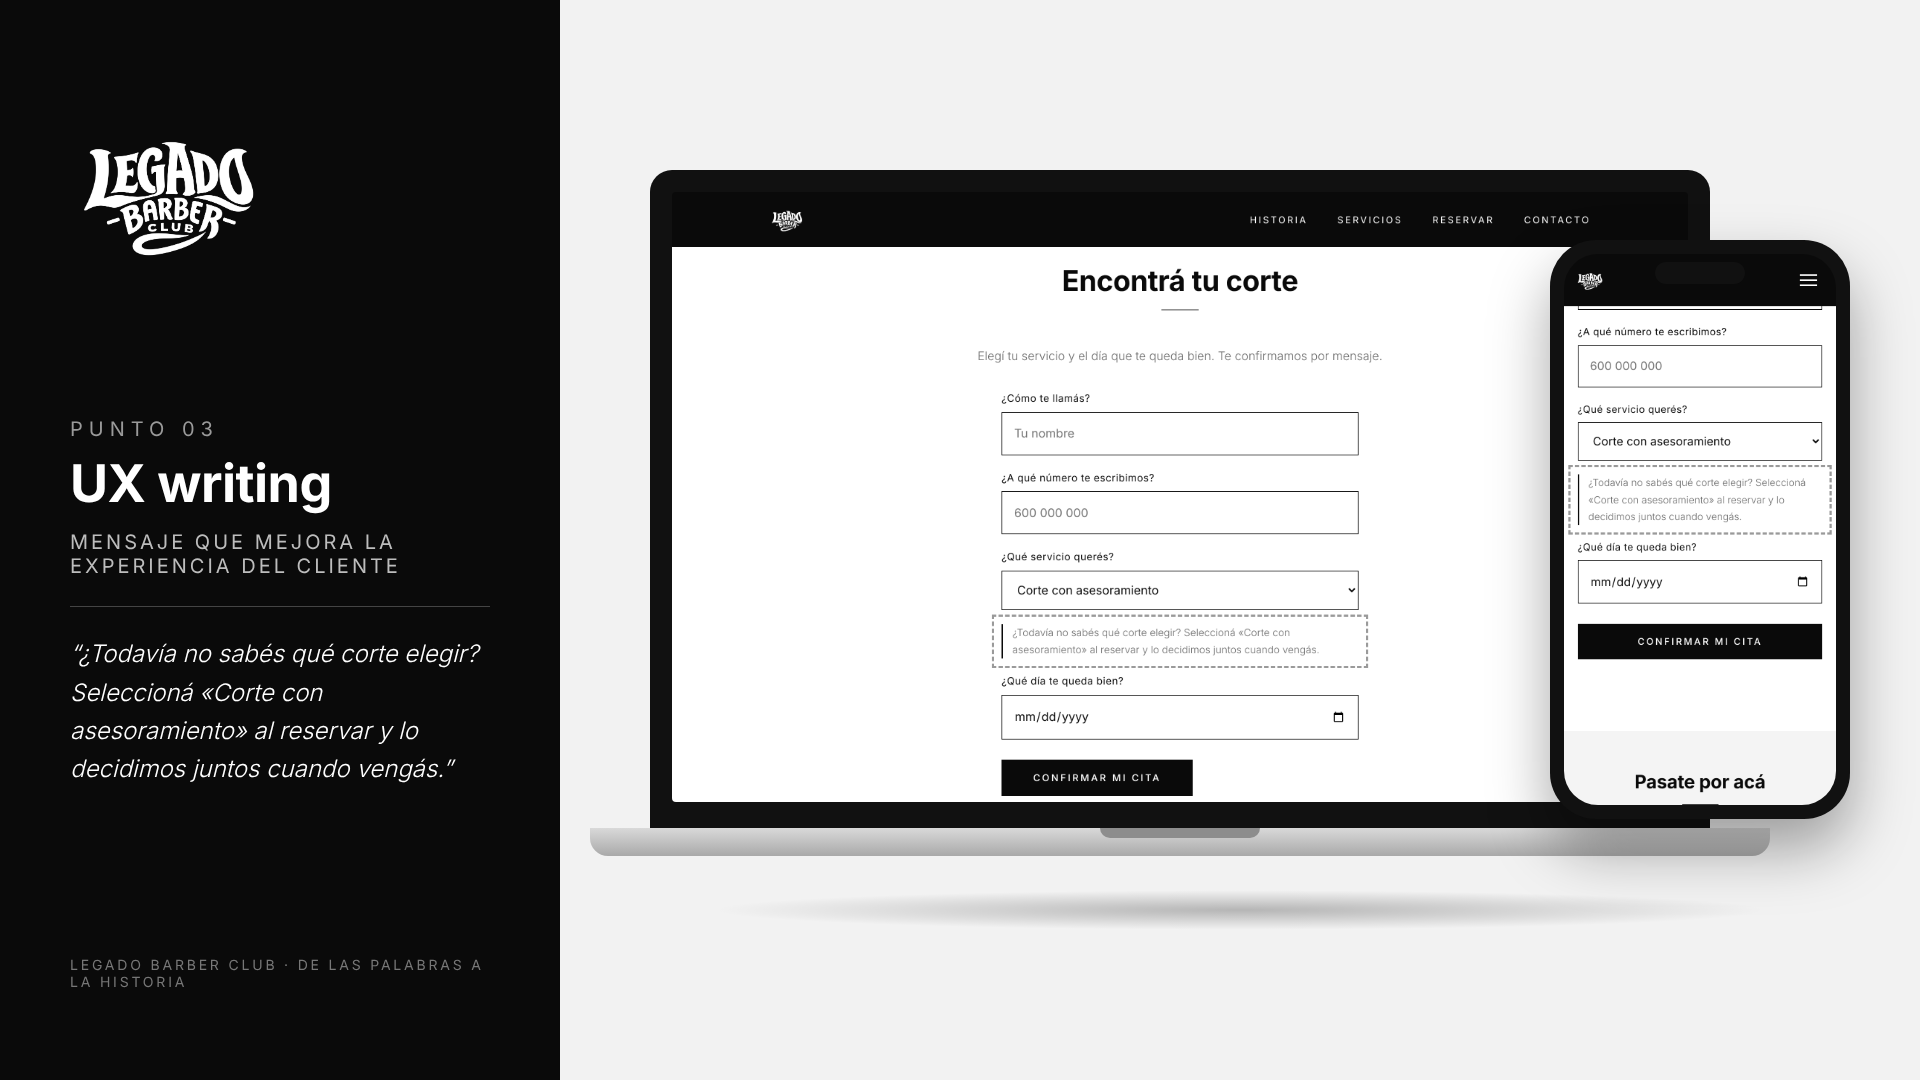
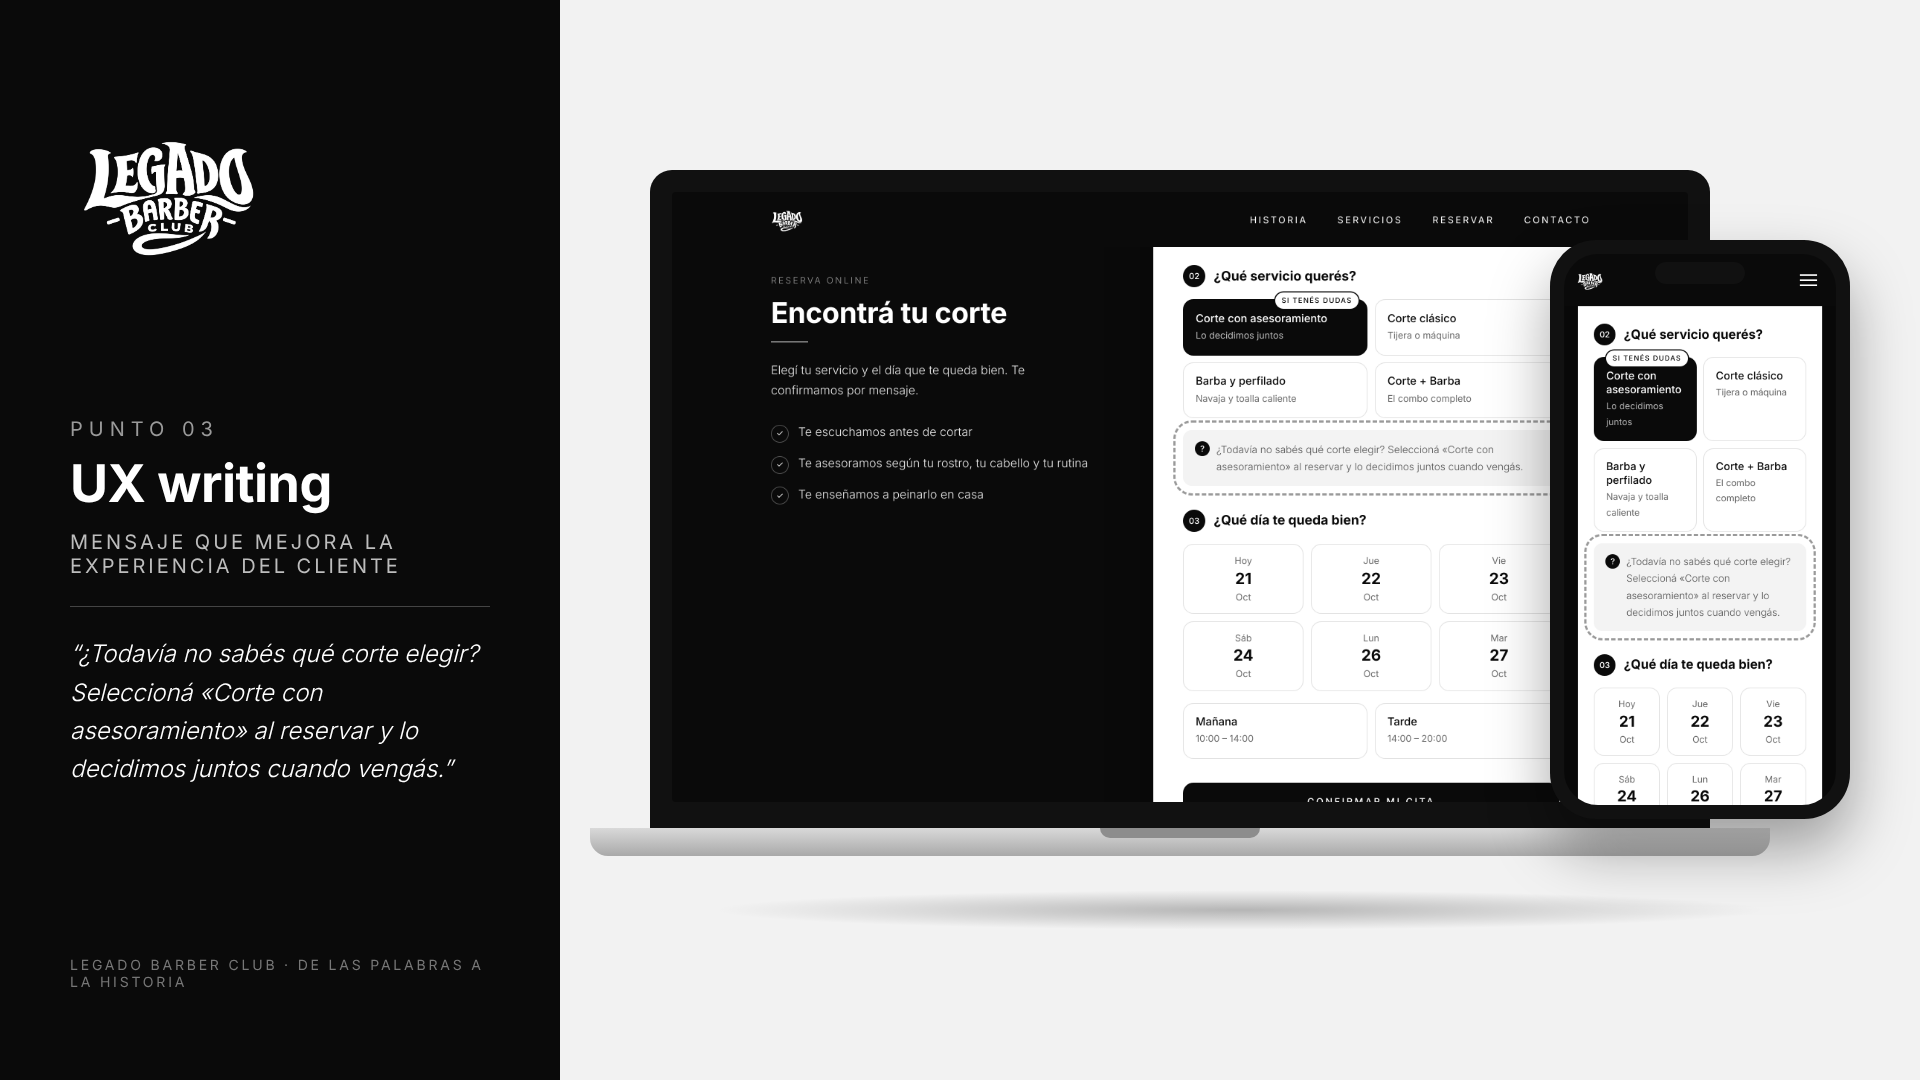
Rediseña la reserva: tarjeta moderna, servicios y días seleccionables, franja horaria
Arregla además el campo de fecha que se desbordaba en iPhone.

Claude-Session: https://claude.ai/code/session_01RobnzDRJb2ZKhNGXWR7zKK

Changed region(s): [[0.3438, 0.2139, 0.9688, 0.7639]]

diff --git a/styles.css b/styles.css
@@ -119,20 +119,92 @@ nav ul a:hover { border-color: var(--blanco); }
 .tarjetas article:hover p { color: var(--gris-claro); }
 
 /* Formulario de reserva */
-.intro { color: var(--gris); margin-bottom: 2rem; }
-.seccion form { max-width: 480px; display: grid; gap: 1.2rem; text-align: left; }
-label { font-size: .85rem; font-weight: 400; letter-spacing: .03em; display: grid; gap: .4rem; }
-input, select {
-  width: 100%; padding: .9rem 1rem; font: inherit; font-size: 1rem; /* 16px evita el zoom en iOS */
-  border: 1px solid var(--negro); background: var(--blanco); color: var(--negro); border-radius: 0;
+.reserva-grid {
+  display: grid; grid-template-columns: 1fr 1.35fr; gap: clamp(2rem, 6vw, 5rem);
+  max-width: 1100px; text-align: left; align-items: start;
 }
-[aria-invalid] { border-width: 2px; }
-input:focus, select:focus { outline: 2px solid var(--negro); outline-offset: 2px; }
-.ayuda { font-size: .85rem; color: var(--gris); border-left: 2px solid var(--negro); padding-left: .8rem; }
-form .btn { justify-self: start; margin-top: .5rem; }
-#mensaje { min-height: 1.5rem; font-size: .95rem; }
-#mensaje.error { border-left: 3px solid var(--negro); padding-left: .8rem; }
-#mensaje.ok { background: var(--negro); color: var(--blanco); padding: 1rem; }
+.reserva-info { position: sticky; top: calc(var(--nav-alto) + 2rem); }
+.etiqueta { font-size: .75rem; letter-spacing: .2em; text-transform: uppercase; color: #9a9a9a; }
+.reserva-info h2 { margin-top: .6rem; }
+.reserva-info h2::after { margin-left: 0; margin-bottom: 1.5rem; }
+.reserva-info > p { color: var(--gris-claro); margin-bottom: 1.8rem; }
+.beneficios { list-style: none; display: grid; gap: .9rem; }
+.beneficios li { display: flex; gap: .8rem; align-items: baseline; color: var(--gris-claro); }
+.beneficios li::before {
+  content: '✓'; flex: none; display: grid; place-items: center; width: 22px; height: 22px;
+  border: 1px solid #555; border-radius: 50%; font-size: .7rem; color: var(--blanco);
+}
+
+.tarjeta-form {
+  background: var(--blanco); color: var(--negro); border-radius: 24px;
+  padding: clamp(1.4rem, 4vw, 2.5rem); display: grid; gap: 2rem;
+  box-shadow: 0 30px 60px rgba(0,0,0,.35);
+}
+fieldset { border: 0; min-width: 0; display: grid; gap: 1rem; }
+legend {
+  display: flex; align-items: center; gap: .7rem; margin-bottom: 1rem;
+  font-family: var(--display); font-weight: 700; font-size: 1.1rem;
+}
+.num {
+  display: inline-grid; place-items: center; width: 30px; height: 30px; border-radius: 50%;
+  background: var(--negro); color: var(--blanco); font-family: 'Inter', sans-serif; font-size: .7rem; font-weight: 500;
+}
+label { font-size: .85rem; font-weight: 400; display: grid; gap: .45rem; }
+input[type=text], input[type=tel] {
+  width: 100%; min-width: 0; padding: .95rem 1.1rem; font: inherit; font-size: 1rem; /* 16px evita el zoom en iOS */
+  border: 1.5px solid transparent; border-radius: 12px; background: #f3f3f3; color: var(--negro);
+  -webkit-appearance: none; appearance: none; transition: border-color .2s, background .2s, box-shadow .2s;
+}
+input[type=text]:focus, input[type=tel]:focus {
+  outline: none; background: var(--blanco); border-color: var(--negro); box-shadow: 0 0 0 4px rgba(0,0,0,.08);
+}
+input[aria-invalid] { background: var(--blanco); border-color: var(--negro); }
+
+/* Opciones seleccionables (servicio, día y franja) */
+.opciones { display: grid; gap: .6rem; grid-template-columns: repeat(2, 1fr); }
+.opciones.dias { grid-template-columns: repeat(3, 1fr); }
+.opcion { position: relative; cursor: pointer; display: block; }
+.opcion input { position: absolute; opacity: 0; pointer-events: none; }
+.opcion > span {
+  display: block; height: 100%; padding: .95rem 1rem; border: 1.5px solid #e2e2e2; border-radius: 14px;
+  background: var(--blanco); transition: border-color .2s, background .2s, color .2s, transform .1s;
+}
+.opcion:hover > span { border-color: var(--negro); }
+.opcion:active > span { transform: scale(.98); }
+.opcion strong { display: block; font-weight: 500; font-size: .92rem; line-height: 1.3; }
+.opcion small { display: block; color: var(--gris); font-size: .78rem; margin-top: .15rem; }
+.opcion input:checked + span { background: var(--negro); border-color: var(--negro); color: var(--blanco); }
+.opcion input:checked + span small { color: #bdbdbd; }
+.opcion input:focus-visible + span { outline: 2px solid var(--negro); outline-offset: 3px; }
+.opciones[aria-invalid] .opcion > span { border-color: var(--negro); }
+.badge {
+  position: absolute; top: -9px; right: 12px; padding: .15rem .55rem; border-radius: 99px;
+  background: var(--negro); color: var(--blanco); font-style: normal; font-size: .6rem;
+  letter-spacing: .12em; text-transform: uppercase; font-weight: 500;
+}
+.opcion input:checked + span .badge { background: var(--blanco); color: var(--negro); box-shadow: 0 0 0 1.5px var(--negro); }
+.dias .opcion > span { text-align: center; padding: .7rem .4rem; }
+.dias strong { font-size: 1.3rem; font-weight: 700; font-family: var(--display); }
+.dias small { margin: 0; text-transform: capitalize; }
+
+.ayuda {
+  font-size: .85rem; color: #555; background: #f3f3f3; border-radius: 12px;
+  padding: .9rem 1rem .9rem 2.8rem; position: relative;
+}
+.ayuda::before {
+  content: '?'; position: absolute; left: 1rem; top: .95rem; width: 20px; height: 20px; border-radius: 50%;
+  background: var(--negro); color: var(--blanco); display: grid; place-items: center; font-size: .7rem; font-weight: 500;
+}
+.tarjeta-form .btn-bloque { display: block; width: 100%; margin-top: 0; border-radius: 14px; padding: 1.1rem; }
+#mensaje:empty { display: none; }
+#mensaje { font-size: .95rem; border-radius: 12px; padding: 1rem 1.1rem; margin-top: -1rem; }
+#mensaje.error { background: #f3f3f3; border-left: 3px solid var(--negro); }
+#mensaje.ok { background: var(--negro); color: var(--blanco); }
+
+@media (max-width: 860px) {
+  .reserva-grid { grid-template-columns: 1fr; }
+  .reserva-info { position: static; }
+}
 
 #contacto p { color: var(--gris); }
 

diff --git a/index.html b/index.html
@@ -70,34 +70,74 @@
   </section>
 
   <!-- 3. UX WRITING: ayuda en la reserva -->
-  <section id="reservar" class="seccion">
-    <h2>Encontrá tu corte</h2>
-    <p class="intro">Elegí tu servicio y el día que te queda bien. Te confirmamos por mensaje.</p>
-    <form id="form-reserva" novalidate>
-      <label>¿Cómo te llamás?
-        <input type="text" name="nombre" placeholder="Tu nombre" required>
-      </label>
-      <label>¿A qué número te escribimos?
-        <input type="tel" name="telefono" placeholder="600 000 000" required>
-      </label>
-      <label>¿Qué servicio querés?
-        <select name="servicio" required>
-          <option value="">Elegí un servicio</option>
-          <option>Corte con asesoramiento</option>
-          <option>Corte clásico</option>
-          <option>Barba y perfilado</option>
-          <option>Corte + Barba</option>
-        </select>
-      </label>
-      <p class="ayuda">¿Todavía no sabés qué corte elegir? Seleccioná «Corte con asesoramiento» al reservar y lo decidimos juntos cuando vengás.</p>
-      <label>¿Qué día te queda bien?
-        <input type="date" name="fecha" required>
-      </label>
-      <button type="submit" class="btn btn-negro">Confirmar mi cita</button>
-      <p id="mensaje" role="status" aria-live="polite"></p>
-    </form>
-  </section>
+  <section id="reservar" class="seccion oscura reserva">
+    <div class="reserva-grid">
+      <div class="reserva-info">
+        <span class="etiqueta">Reserva online</span>
+        <h2>Encontrá tu corte</h2>
+        <p>Elegí tu servicio y el día que te queda bien. Te confirmamos por mensaje.</p>
+        <ul class="beneficios">
+          <li>Te escuchamos antes de cortar</li>
+          <li>Te asesoramos según tu rostro, tu cabello y tu rutina</li>
+          <li>Te enseñamos a peinarlo en casa</li>
+        </ul>
+      </div>
 
+      <form id="form-reserva" class="tarjeta-form" novalidate>
+        <fieldset>
+          <legend><span class="num">01</span> Tus datos</legend>
+          <label>¿Cómo te llamás?
+            <input type="text" name="nombre" placeholder="Tu nombre" autocomplete="given-name" required>
+          </label>
+          <label>¿A qué número te escribimos?
+            <input type="tel" name="telefono" placeholder="11 2345 6789" inputmode="tel" autocomplete="tel" required>
+          </label>
+        </fieldset>
+
+        <fieldset>
+          <legend><span class="num">02</span> ¿Qué servicio querés?</legend>
+          <div class="opciones servicios">
+            <label class="opcion">
+              <input type="radio" name="servicio" value="Corte con asesoramiento">
+              <span><em class="badge">Si tenés dudas</em><strong>Corte con asesoramiento</strong><small>Lo decidimos juntos</small></span>
+            </label>
+            <label class="opcion">
+              <input type="radio" name="servicio" value="Corte clásico">
+              <span><strong>Corte clásico</strong><small>Tijera o máquina</small></span>
+            </label>
+            <label class="opcion">
+              <input type="radio" name="servicio" value="Barba y perfilado">
+              <span><strong>Barba y perfilado</strong><small>Navaja y toalla caliente</small></span>
+            </label>
+            <label class="opcion">
+              <input type="radio" name="servicio" value="Corte + Barba">
+              <span><strong>Corte + Barba</strong><small>El combo completo</small></span>
+            </label>
+          </div>
+          <p class="ayuda">¿Todavía no sabés qué corte elegir? Seleccioná «Corte con asesoramiento» al reservar y lo decidimos juntos cuando vengás.</p>
+        </fieldset>
+
+        <fieldset>
+          <legend><span class="num">03</span> ¿Qué día te queda bien?</legend>
+          <!-- Los próximos días abiertos se generan en script.js -->
+          <div class="opciones dias" id="dias"></div>
+          <div class="opciones franjas">
+            <label class="opcion">
+              <input type="radio" name="franja" value="a la mañana">
+              <span><strong>Mañana</strong><small>10:00 – 14:00</small></span>
+            </label>
+            <label class="opcion">
+              <input type="radio" name="franja" value="a la tarde">
+              <span><strong>Tarde</strong><small>14:00 – 20:00</small></span>
+            </label>
+          </div>
+        </fieldset>
+
+        <button type="submit" class="btn btn-negro btn-bloque">Confirmar mi cita</button>
+        <p id="mensaje" role="status" aria-live="polite"></p>
+      </form>
+    </div>
+  </section>
   <section id="contacto" class="seccion gris">
     <h2>Pasate por acá</h2>
     <p>Calle Principal 123</p>

diff --git a/script.js b/script.js
@@ -14,36 +14,54 @@ header.querySelectorAll('nav ul a').forEach(a => a.addEventListener('click', () 
 const form = document.getElementById('form-reserva');
 const mensaje = document.getElementById('mensaje');
 
-// Hoy (hora local) como fecha mínima
-const hoy = new Date();
-form.fecha.min = [hoy.getFullYear(), String(hoy.getMonth() + 1).padStart(2, '0'), String(hoy.getDate()).padStart(2, '0')].join('-');
+// Próximos 6 días abiertos (lunes a sábado) como opciones seleccionables
+const fechaISO = d => [d.getFullYear(), String(d.getMonth() + 1).padStart(2, '0'), String(d.getDate()).padStart(2, '0')].join('-');
+const dias = document.getElementById('dias');
+const dia = new Date();
+for (let n = 0; n < 6; dia.setDate(dia.getDate() + 1)) {
+  if (dia.getDay() === 0) continue; // Los domingos descansamos
+  const nombre = n === 0 && fechaISO(dia) === fechaISO(new Date())
+    ? 'Hoy'
+    : dia.toLocaleDateString('es', { weekday: 'short' }).replace('.', '');
+  const mes = dia.toLocaleDateString('es', { month: 'short' }).replace('.', '');
+  dias.insertAdjacentHTML('beforeend', `
+    <label class="opcion">
+      <input type="radio" name="fecha" value="${fechaISO(dia)}">
+      <span><small>${nombre}</small><strong>${dia.getDate()}</strong><small>${mes}</small></span>
+    </label>`);
+  n++;
+}
 
 form.addEventListener('submit', (e) => {
   e.preventDefault();
-  const { nombre, telefono, servicio, fecha } = form;
+  const { nombre, telefono } = form;
+  const servicio = form.servicio.value, fecha = form.fecha.value, franja = form.franja.value;
+  const primero = name => form.querySelector(`[name=${name}]`);
 
   // UX writing: mensajes claros que dicen qué falta y cómo arreglarlo
   if (!nombre.value.trim()) return avisar('Decinos tu nombre para reservarte el turno.', nombre);
   if (telefono.value.replace(/\D/g, '').length < 8) return avisar('Revisá tu número: parece que le faltan dígitos.', telefono);
-  if (!servicio.value) return avisar('Elegí un servicio. Si tenés dudas, seleccioná «Corte con asesoramiento».', servicio);
-  if (!fecha.value) return avisar('Elegí el día que te queda bien.', fecha);
-  if (fecha.value < fecha.min) return avisar('Esa fecha ya pasó. Elegí un día a partir de hoy.', fecha);
+  if (!servicio) return avisar('Elegí un servicio. Si tenés dudas, seleccioná «Corte con asesoramiento».', primero('servicio'));
+  if (!fecha) return avisar('Elegí el día que te queda bien.', primero('fecha'));
+  if (!franja) return avisar('¿Preferís venir a la mañana o a la tarde?', primero('franja'));
 
-  const dia = new Date(fecha.value + 'T12:00');
-  if (dia.getDay() === 0) return avisar('Los domingos descansamos. Elegí un día de lunes a sábado.', fecha);
-  const diaTexto = dia.toLocaleDateString('es', { weekday: 'long', day: 'numeric', month: 'long' }).replace(',', '');
-
-  const asesoramiento = servicio.value === 'Corte con asesoramiento'
+  const diaTexto = new Date(fecha + 'T12:00')
+    .toLocaleDateString('es', { weekday: 'long', day: 'numeric', month: 'long' }).replace(',', '');
+  const asesoramiento = servicio === 'Corte con asesoramiento'
     ? ' Vamos a decidir juntos tu corte cuando vengás.'
     : '';
-  avisar(`¡Listo, ${nombre.value.trim()}! Reservamos tu turno para el ${diaTexto}.${asesoramiento} Te escribimos para confirmar la hora.`);
+  avisar(`¡Listo, ${nombre.value.trim()}! Reservamos tu turno para el ${diaTexto}, ${franja}.${asesoramiento} Te escribimos para confirmar la hora.`);
   form.reset();
+  mensaje.scrollIntoView({ behavior: 'smooth', block: 'center' });
 });
 
-// Si se pasa un campo, es un error: se marca y se lleva el foco ahí
+// Si se pasa un campo, es un error: se marca (el campo o su grupo de opciones) y se lleva el foco ahí
 function avisar(texto, campo) {
   mensaje.textContent = texto;
   mensaje.className = campo ? 'error' : 'ok';
   form.querySelectorAll('[aria-invalid]').forEach(c => c.removeAttribute('aria-invalid'));
-  if (campo) { campo.setAttribute('aria-invalid', 'true'); campo.focus(); }
+  if (campo) {
+    (campo.closest('.opciones') || campo).setAttribute('aria-invalid', 'true');
+    campo.focus();
+  }
 }
